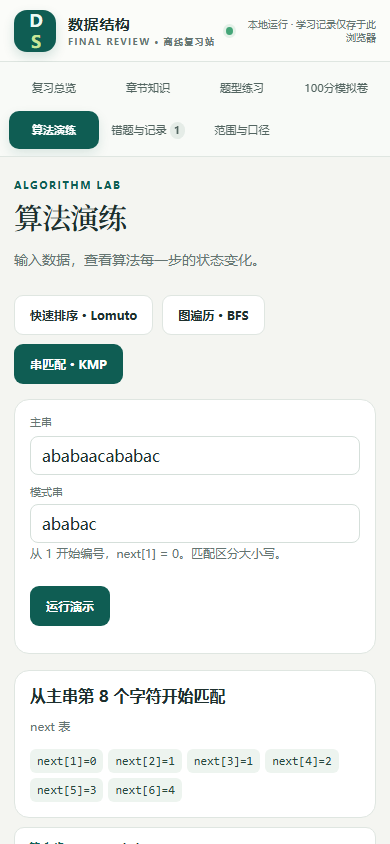
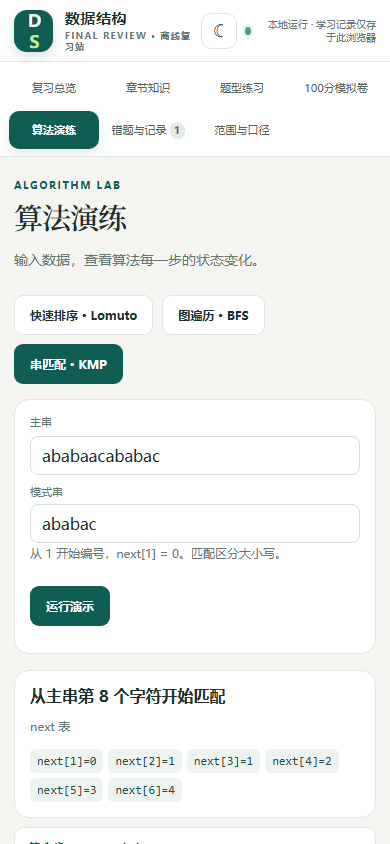
Add persistent dark mode toggle

diff --git a/assets/styles.css b/assets/styles.css
@@ -1,4 +1,4 @@
-:root {
+:root {
   color-scheme: light;
   --paper: #f4f5f1;
   --surface: #ffffff;
@@ -26,7 +26,7 @@ button { cursor: pointer; }
 a { color: inherit; }
 .skip-link { position: absolute; left: -999px; top: 8px; z-index: 10; padding: 10px; background: white; }
 .skip-link:focus { left: 8px; }
-.topbar { height: 72px; padding: 0 clamp(18px, 4vw, 52px); display: flex; align-items: center; justify-content: space-between; background: #fbfcf9; border-bottom: 1px solid var(--line); }
+.topbar { height: 72px; padding: 0 clamp(18px, 4vw, 52px); display: flex; align-items: center; justify-content: space-between; background: var(--surface); border-bottom: 1px solid var(--line); }
 .brand { display: inline-flex; gap: 12px; align-items: center; text-decoration: none; }
 .brand-mark { width: 42px; height: 42px; display: grid; place-items: center; border-radius: 13px; background: var(--pine); color: #effbf5; font-weight: 800; letter-spacing: -2px; font-size: 17px; box-shadow: 0 5px 12px #0f5d5329; }
 .brand-mark span { color: var(--lime); }
@@ -177,7 +177,7 @@ h3 { margin-bottom: 8px; font-size: 16px; }
   .topbar { height: 62px; padding-inline: 14px; }
   .topbar-note { max-width: 150px; text-align: right; font-size: 10px; }
   .shell { display: block; min-height: auto; }
-  .sidebar { position: sticky; z-index: 5; top: 0; overflow-x: auto; padding: 7px 9px; border: 0; border-bottom: 1px solid var(--line); background: #f8faf7f2; backdrop-filter: blur(12px); }
+  .sidebar { position: sticky; z-index: 5; top: 0; overflow-x: auto; padding: 7px 9px; border: 0; border-bottom: 1px solid var(--line); background: var(--surface); backdrop-filter: blur(12px); }
   .sidebar-label,.sidebar-bottom { display: none; }
   .primary-nav { grid-template-columns: repeat(4, minmax(0, 1fr)); gap: 4px; }
   .nav-item { justify-content: center; min-height: 38px; gap: 3px; padding-inline: 3px; white-space: nowrap; font-size: 11px; }
@@ -202,5 +202,67 @@ h3 { margin-bottom: 8px; font-size: 16px; }
   .scope-table { font-size: 10px; }
   .scope-table th,.scope-table td { padding: 8px 5px; }
   .site-footer { flex-direction: column; padding: 15px; }
+}
+:root[data-theme="dark"] {
+  color-scheme: dark;
+  --paper: #111714;
+  --surface: #1a2420;
+  --ink: #e6ede9;
+  --muted: #a8b7af;
+  --line: #34423b;
+  --pine: #286e62;
+  --pine-deep: #173c36;
+  --mint: #28483e;
+  --lime: #c8e59a;
+  --shadow: 0 14px 36px rgba(0, 0, 0, .32);
+}
+:root[data-theme="dark"] .skip-link { background: var(--surface); color: var(--ink); }
+:root[data-theme="dark"] .sidebar-label,
+:root[data-theme="dark"] .site-footer { color: var(--muted); }
+:root[data-theme="dark"] .nav-item { color: var(--muted); }
+:root[data-theme="dark"] .nav-item:hover { background: #25352f; color: #d0eee3; }
+:root[data-theme="dark"] .nav-item.is-active { color: #fff; }
+:root[data-theme="dark"] .nav-count { background: #2d3d36; color: #d6e1db; }
+:root[data-theme="dark"] .button.secondary { background: #222e29; color: var(--ink); }
+:root[data-theme="dark"] .button.secondary:hover { border-color: #52786b; background: #293a33; }
+:root[data-theme="dark"] .chapter-card:nth-child(4n+2) .chapter-number { background: #463824; color: #f0cc8b; }
+:root[data-theme="dark"] .chapter-card:nth-child(4n+3) .chapter-number { background: #303344; color: #c7cafa; }
+:root[data-theme="dark"] .chapter-card:nth-child(4n) .chapter-number { background: #472e2a; color: #f0b2a4; }
+:root[data-theme="dark"] .note-card { border-color: #59492e; background: #30291d; color: #edce94; }
+:root[data-theme="dark"] .input,
+:root[data-theme="dark"] .select { border-color: var(--line); background: #151e1a; color: var(--ink); }
+:root[data-theme="dark"] .checkbox-label { color: var(--muted); }
+:root[data-theme="dark"] .pill { background: #29443a; color: #a9ddc8; }
+:root[data-theme="dark"] .pill.amber { background: #40351f; color: #efd39a; }
+:root[data-theme="dark"] .pill.blue { background: #303748; color: #c3ccef; }
+:root[data-theme="dark"] .pill.rose { background: #452f2c; color: #f0b4a6; }
+:root[data-theme="dark"] .topic-summary,
+:root[data-theme="dark"] .topic-body ul,
+:root[data-theme="dark"] .topic-body ol,
+:root[data-theme="dark"] .answer-content,
+:root[data-theme="dark"] .self-check label { color: var(--muted); }
+:root[data-theme="dark"] .topic-body h4 { color: #c3d0c9; }
+:root[data-theme="dark"] .example-box { background: #202b26; }
+:root[data-theme="dark"] .example-box strong { color: #c1e0d2; }
+:root[data-theme="dark"] .source-line { color: #a0afa7; }
+:root[data-theme="dark"] .option { border-color: #35443d; background: #1c2722; color: #dce7e1; }
+:root[data-theme="dark"] .option:hover { border-color: #5a8575; background: #24352e; }
+:root[data-theme="dark"] .hint { color: #a1afa8; }
+:root[data-theme="dark"] .answer-details { border-color: var(--line); }
+:root[data-theme="dark"] .result-line.good { background: #193b2c; color: #a6e1ba; }
+:root[data-theme="dark"] .result-line.bad { background: #442723; color: #ffaaa0; }
+:root[data-theme="dark"] .result-line.pending { background: #3c3525; color: #ecd08f; }
+:root[data-theme="dark"] .mock-item,
+:root[data-theme="dark"] .trace-step,
+:root[data-theme="dark"] .loading-card { background: var(--surface); }
+:root[data-theme="dark"] .empty-state { border-color: #4a5a51; background: #18221d; color: var(--muted); }
+:root[data-theme="dark"] .trace-values span { background: #263d33; color: #d0e8da; }
+.topbar-tools { display: flex; align-items: center; gap: 12px; min-width: 0; }
+.theme-toggle { display: grid; place-items: center; flex: 0 0 36px; width: 36px; height: 36px; padding: 0; border: 1px solid var(--line); border-radius: 10px; background: var(--surface); color: var(--ink); font-size: 18px; line-height: 1; transition: background .15s, border-color .15s, transform .15s; }
+.theme-toggle:hover { transform: translateY(-1px); border-color: var(--pine); }
+.theme-toggle:focus-visible { outline: 3px solid var(--pine); outline-offset: 2px; }
+@media (max-width: 620px) {
+  .topbar-tools { gap: 8px; }
+  .topbar-note { max-width: 145px; }
 }
 @media (prefers-reduced-motion: reduce) { *,*::before,*::after { scroll-behavior: auto !important; transition: none !important; } }

diff --git a/dist/styles.css b/dist/styles.css
@@ -1,4 +1,4 @@
-:root {
+:root {
   color-scheme: light;
   --paper: #f4f5f1;
   --surface: #ffffff;
@@ -26,7 +26,7 @@ button { cursor: pointer; }
 a { color: inherit; }
 .skip-link { position: absolute; left: -999px; top: 8px; z-index: 10; padding: 10px; background: white; }
 .skip-link:focus { left: 8px; }
-.topbar { height: 72px; padding: 0 clamp(18px, 4vw, 52px); display: flex; align-items: center; justify-content: space-between; background: #fbfcf9; border-bottom: 1px solid var(--line); }
+.topbar { height: 72px; padding: 0 clamp(18px, 4vw, 52px); display: flex; align-items: center; justify-content: space-between; background: var(--surface); border-bottom: 1px solid var(--line); }
 .brand { display: inline-flex; gap: 12px; align-items: center; text-decoration: none; }
 .brand-mark { width: 42px; height: 42px; display: grid; place-items: center; border-radius: 13px; background: var(--pine); color: #effbf5; font-weight: 800; letter-spacing: -2px; font-size: 17px; box-shadow: 0 5px 12px #0f5d5329; }
 .brand-mark span { color: var(--lime); }
@@ -177,7 +177,7 @@ h3 { margin-bottom: 8px; font-size: 16px; }
   .topbar { height: 62px; padding-inline: 14px; }
   .topbar-note { max-width: 150px; text-align: right; font-size: 10px; }
   .shell { display: block; min-height: auto; }
-  .sidebar { position: sticky; z-index: 5; top: 0; overflow-x: auto; padding: 7px 9px; border: 0; border-bottom: 1px solid var(--line); background: #f8faf7f2; backdrop-filter: blur(12px); }
+  .sidebar { position: sticky; z-index: 5; top: 0; overflow-x: auto; padding: 7px 9px; border: 0; border-bottom: 1px solid var(--line); background: var(--surface); backdrop-filter: blur(12px); }
   .sidebar-label,.sidebar-bottom { display: none; }
   .primary-nav { grid-template-columns: repeat(4, minmax(0, 1fr)); gap: 4px; }
   .nav-item { justify-content: center; min-height: 38px; gap: 3px; padding-inline: 3px; white-space: nowrap; font-size: 11px; }
@@ -202,5 +202,67 @@ h3 { margin-bottom: 8px; font-size: 16px; }
   .scope-table { font-size: 10px; }
   .scope-table th,.scope-table td { padding: 8px 5px; }
   .site-footer { flex-direction: column; padding: 15px; }
+}
+:root[data-theme="dark"] {
+  color-scheme: dark;
+  --paper: #111714;
+  --surface: #1a2420;
+  --ink: #e6ede9;
+  --muted: #a8b7af;
+  --line: #34423b;
+  --pine: #286e62;
+  --pine-deep: #173c36;
+  --mint: #28483e;
+  --lime: #c8e59a;
+  --shadow: 0 14px 36px rgba(0, 0, 0, .32);
+}
+:root[data-theme="dark"] .skip-link { background: var(--surface); color: var(--ink); }
+:root[data-theme="dark"] .sidebar-label,
+:root[data-theme="dark"] .site-footer { color: var(--muted); }
+:root[data-theme="dark"] .nav-item { color: var(--muted); }
+:root[data-theme="dark"] .nav-item:hover { background: #25352f; color: #d0eee3; }
+:root[data-theme="dark"] .nav-item.is-active { color: #fff; }
+:root[data-theme="dark"] .nav-count { background: #2d3d36; color: #d6e1db; }
+:root[data-theme="dark"] .button.secondary { background: #222e29; color: var(--ink); }
+:root[data-theme="dark"] .button.secondary:hover { border-color: #52786b; background: #293a33; }
+:root[data-theme="dark"] .chapter-card:nth-child(4n+2) .chapter-number { background: #463824; color: #f0cc8b; }
+:root[data-theme="dark"] .chapter-card:nth-child(4n+3) .chapter-number { background: #303344; color: #c7cafa; }
+:root[data-theme="dark"] .chapter-card:nth-child(4n) .chapter-number { background: #472e2a; color: #f0b2a4; }
+:root[data-theme="dark"] .note-card { border-color: #59492e; background: #30291d; color: #edce94; }
+:root[data-theme="dark"] .input,
+:root[data-theme="dark"] .select { border-color: var(--line); background: #151e1a; color: var(--ink); }
+:root[data-theme="dark"] .checkbox-label { color: var(--muted); }
+:root[data-theme="dark"] .pill { background: #29443a; color: #a9ddc8; }
+:root[data-theme="dark"] .pill.amber { background: #40351f; color: #efd39a; }
+:root[data-theme="dark"] .pill.blue { background: #303748; color: #c3ccef; }
+:root[data-theme="dark"] .pill.rose { background: #452f2c; color: #f0b4a6; }
+:root[data-theme="dark"] .topic-summary,
+:root[data-theme="dark"] .topic-body ul,
+:root[data-theme="dark"] .topic-body ol,
+:root[data-theme="dark"] .answer-content,
+:root[data-theme="dark"] .self-check label { color: var(--muted); }
+:root[data-theme="dark"] .topic-body h4 { color: #c3d0c9; }
+:root[data-theme="dark"] .example-box { background: #202b26; }
+:root[data-theme="dark"] .example-box strong { color: #c1e0d2; }
+:root[data-theme="dark"] .source-line { color: #a0afa7; }
+:root[data-theme="dark"] .option { border-color: #35443d; background: #1c2722; color: #dce7e1; }
+:root[data-theme="dark"] .option:hover { border-color: #5a8575; background: #24352e; }
+:root[data-theme="dark"] .hint { color: #a1afa8; }
+:root[data-theme="dark"] .answer-details { border-color: var(--line); }
+:root[data-theme="dark"] .result-line.good { background: #193b2c; color: #a6e1ba; }
+:root[data-theme="dark"] .result-line.bad { background: #442723; color: #ffaaa0; }
+:root[data-theme="dark"] .result-line.pending { background: #3c3525; color: #ecd08f; }
+:root[data-theme="dark"] .mock-item,
+:root[data-theme="dark"] .trace-step,
+:root[data-theme="dark"] .loading-card { background: var(--surface); }
+:root[data-theme="dark"] .empty-state { border-color: #4a5a51; background: #18221d; color: var(--muted); }
+:root[data-theme="dark"] .trace-values span { background: #263d33; color: #d0e8da; }
+.topbar-tools { display: flex; align-items: center; gap: 12px; min-width: 0; }
+.theme-toggle { display: grid; place-items: center; flex: 0 0 36px; width: 36px; height: 36px; padding: 0; border: 1px solid var(--line); border-radius: 10px; background: var(--surface); color: var(--ink); font-size: 18px; line-height: 1; transition: background .15s, border-color .15s, transform .15s; }
+.theme-toggle:hover { transform: translateY(-1px); border-color: var(--pine); }
+.theme-toggle:focus-visible { outline: 3px solid var(--pine); outline-offset: 2px; }
+@media (max-width: 620px) {
+  .topbar-tools { gap: 8px; }
+  .topbar-note { max-width: 145px; }
 }
 @media (prefers-reduced-motion: reduce) { *,*::before,*::after { scroll-behavior: auto !important; transition: none !important; } }

diff --git a/assets/app.js b/assets/app.js
@@ -180,6 +180,24 @@ function renderKmpTrace(result) {
 const scopeRows=[['1 绪论','数据、数据元素、抽象数据类型与算法分析。','算法性质和复杂度是基础；按章节自编选择练习。'],['2 线性表','顺序表插入/查找与单链表头插、尾插。','程序训练标明下标和带/不带头结点。'],['3 栈和队列','LIFO、FIFO；顺序栈与循环队列操作。','循环队列留一空位时，空front==rear，满(rear+1)%M==front。'],['4 串、数组和广义表','BF/KMP与next约定、数组地址、广义表辨析。','广义表优先选择题；是否只考选择待核实。'],['5 树和二叉树','遍历与充分序列建树；哈夫曼树和WPL。','输入足以唯一确定树；哈夫曼并列接受等价最优树。'],['6 图','遍历、最小生成树、最短路径。','纪要对综合应用含条件句，不标成必考。'],['7 查找','折半查找及代码；二叉排序树构造。','边界使用闭区间，重复键策略单独说明。'],['8 排序','插入、希尔、冒泡、快速；堆与归并基础。','希尔增量、快排分区方法显式给出。']];
 function scopeView(){shell('考试范围与教材依据','SCOPE & SOURCES','各主题附有教材节号与页码，复习顺序参照考试纪要。',`<div class="note-card" style="margin-top:18px"><span class="note-icon">ⓘ</span><span>纪要正文与饼图将选择题列为 40 分，概览图列为 20 分。模拟卷采用 40 分，正式分值待确认。</span></div><div class="panel" style="margin-top:15px;overflow:auto"><table class="scope-table"><thead><tr><th>章节</th><th>复习重点</th><th>口径</th></tr></thead><tbody>${scopeRows.map(r=>`<tr>${r.map(x=>`<td>${esc(x)}</td>`).join('')}</tr>`).join('')}</tbody></table></div><div class="grid-two" style="margin-top:14px"><article class="panel"><h3>纪要与教材对照</h3><ul><li>留一空位的循环队列用 <code>front == rear</code> 判空，用 <code>(rear + 1) % M == front</code> 判满。见教材 §3.5.2，印刷第79页。</li><li>教材顺序栈的 <code>top</code> 指向下一空位，<code>top == base</code> 时为空。见教材 §3.3.2，印刷第66页。</li></ul></article><article class="panel"><h3>训练题来源</h3><p>题库采用自编练习。知识点同时列出教材印刷页和 PDF 物理页，正文相差 12 页。正式题量和考试日期以老师通知为准。</p></article></div>`)}
 function draw(){if(!D?.chapters?.length){app.innerHTML='<div class="empty-state">缺少题库，请运行构建脚本生成 dist。</div>';return}({overview,chapters:chaptersView,chapter:chapterView,practice:practiceView,quiz:quizView,mock:mockView,wrong:wrongView,lab:labView,scope:scopeView}[S.view]||overview)();nav()}
+const themeToggle=$('#theme-toggle');
+const themeStorageKey='ds-final-review-theme-v1';
+let savedTheme=null;
+try{savedTheme=localStorage.getItem(themeStorageKey)}catch{}
+const systemTheme=matchMedia('(prefers-color-scheme: dark)');
+let hasSavedTheme=savedTheme==='dark'||savedTheme==='light';
+function setTheme(theme,persist=false){
+  const dark=theme==='dark';
+  document.documentElement.dataset.theme=dark?'dark':'light';
+  if(themeToggle){themeToggle.setAttribute('aria-pressed',String(dark));themeToggle.title=dark?'切换为浅色主题':'切换为暗色主题';themeToggle.innerHTML=`<span aria-hidden="true">${dark?'☀':'☾'}</span>`}
+  $('meta[name="theme-color"]')?.setAttribute('content',dark?'#111714':'#f4f5f1');
+  if(persist)try{localStorage.setItem(themeStorageKey,dark?'dark':'light')}catch{}
+}
+if(themeToggle){
+  setTheme(hasSavedTheme?savedTheme:systemTheme.matches?'dark':'light');
+  if(!hasSavedTheme)systemTheme.addEventListener('change',event=>{if(!hasSavedTheme)setTheme(event.matches?'dark':'light')});
+  themeToggle.addEventListener('click',()=>{hasSavedTheme=true;setTheme(document.documentElement.dataset.theme==='dark'?'light':'dark',true)});
+}
 document.addEventListener('click',e=>{let n=e.target.closest('[data-view]');if(n){show(n.dataset.view);return}let b=e.target.closest('[data-action]');if(!b)return;let a=b.dataset.action;if(a==='chapter'){S.chapter=b.dataset.id;show('chapter')}else if(a==='chapter-quiz'){let c=cm.get(b.dataset.id);startQuiz(C.shuffle(c.questions),`第${c.number}章 · ${c.title}练习`)}else if(a==='topic-quiz'){let c=cm.get(b.dataset.ch);startQuiz(c.questions.filter(q=>q.topicId===b.dataset.topic),`${c.title} · 主题练习`)}else if(a==='master'){let id=b.dataset.id;S.progress.mastered=S.progress.mastered.includes(id)?S.progress.mastered.filter(x=>x!==id):[...S.progress.mastered,id];save();draw()}else if(a==='mock'){try{let sec=C.buildExam(chapters,Date.now());Object.values(sec).flat().forEach(q=>{q.chapterId=q.id.slice(0,4);q.chapterTitle=cm.get(q.chapterId)?.title||''});startQuiz(Object.values(sec).flat(),'100分模拟练习','mock',sec)}catch(x){alert(x.message)}}else if(a==='new-quiz')show(S.quiz.kind==='mock'?'mock':S.quiz.kind==='wrong'?'wrong':'practice');else if(a==='retry'){let qs=S.progress.wrong.map(id=>qm.get(id)).filter(Boolean);startQuiz(qs,'错题重练','wrong')}else if(a==='export'){let u=URL.createObjectURL(new Blob([C.exportProgress(S.progress)],{type:'application/json'})),x=document.createElement('a');x.href=u;x.download='data-structures-review-progress.json';x.click();setTimeout(()=>URL.revokeObjectURL(u),1000)}else if(a==='lab-kind'){S.lab=b.dataset.kind;S.trace=null;draw()}});
 function gradeCurrentQuiz(form) {
   const quiz = S.quiz;

diff --git a/dist/app.js b/dist/app.js
@@ -439,6 +439,24 @@ function renderKmpTrace(result) {
 const scopeRows=[['1 绪论','数据、数据元素、抽象数据类型与算法分析。','算法性质和复杂度是基础；按章节自编选择练习。'],['2 线性表','顺序表插入/查找与单链表头插、尾插。','程序训练标明下标和带/不带头结点。'],['3 栈和队列','LIFO、FIFO；顺序栈与循环队列操作。','循环队列留一空位时，空front==rear，满(rear+1)%M==front。'],['4 串、数组和广义表','BF/KMP与next约定、数组地址、广义表辨析。','广义表优先选择题；是否只考选择待核实。'],['5 树和二叉树','遍历与充分序列建树；哈夫曼树和WPL。','输入足以唯一确定树；哈夫曼并列接受等价最优树。'],['6 图','遍历、最小生成树、最短路径。','纪要对综合应用含条件句，不标成必考。'],['7 查找','折半查找及代码；二叉排序树构造。','边界使用闭区间，重复键策略单独说明。'],['8 排序','插入、希尔、冒泡、快速；堆与归并基础。','希尔增量、快排分区方法显式给出。']];
 function scopeView(){shell('考试范围与教材依据','SCOPE & SOURCES','各主题附有教材节号与页码，复习顺序参照考试纪要。',`<div class="note-card" style="margin-top:18px"><span class="note-icon">ⓘ</span><span>纪要正文与饼图将选择题列为 40 分，概览图列为 20 分。模拟卷采用 40 分，正式分值待确认。</span></div><div class="panel" style="margin-top:15px;overflow:auto"><table class="scope-table"><thead><tr><th>章节</th><th>复习重点</th><th>口径</th></tr></thead><tbody>${scopeRows.map(r=>`<tr>${r.map(x=>`<td>${esc(x)}</td>`).join('')}</tr>`).join('')}</tbody></table></div><div class="grid-two" style="margin-top:14px"><article class="panel"><h3>纪要与教材对照</h3><ul><li>留一空位的循环队列用 <code>front == rear</code> 判空，用 <code>(rear + 1) % M == front</code> 判满。见教材 §3.5.2，印刷第79页。</li><li>教材顺序栈的 <code>top</code> 指向下一空位，<code>top == base</code> 时为空。见教材 §3.3.2，印刷第66页。</li></ul></article><article class="panel"><h3>训练题来源</h3><p>题库采用自编练习。知识点同时列出教材印刷页和 PDF 物理页，正文相差 12 页。正式题量和考试日期以老师通知为准。</p></article></div>`)}
 function draw(){if(!D?.chapters?.length){app.innerHTML='<div class="empty-state">缺少题库，请运行构建脚本生成 dist。</div>';return}({overview,chapters:chaptersView,chapter:chapterView,practice:practiceView,quiz:quizView,mock:mockView,wrong:wrongView,lab:labView,scope:scopeView}[S.view]||overview)();nav()}
+const themeToggle=$('#theme-toggle');
+const themeStorageKey='ds-final-review-theme-v1';
+let savedTheme=null;
+try{savedTheme=localStorage.getItem(themeStorageKey)}catch{}
+const systemTheme=matchMedia('(prefers-color-scheme: dark)');
+let hasSavedTheme=savedTheme==='dark'||savedTheme==='light';
+function setTheme(theme,persist=false){
+  const dark=theme==='dark';
+  document.documentElement.dataset.theme=dark?'dark':'light';
+  if(themeToggle){themeToggle.setAttribute('aria-pressed',String(dark));themeToggle.title=dark?'切换为浅色主题':'切换为暗色主题';themeToggle.innerHTML=`<span aria-hidden="true">${dark?'☀':'☾'}</span>`}
+  $('meta[name="theme-color"]')?.setAttribute('content',dark?'#111714':'#f4f5f1');
+  if(persist)try{localStorage.setItem(themeStorageKey,dark?'dark':'light')}catch{}
+}
+if(themeToggle){
+  setTheme(hasSavedTheme?savedTheme:systemTheme.matches?'dark':'light');
+  if(!hasSavedTheme)systemTheme.addEventListener('change',event=>{if(!hasSavedTheme)setTheme(event.matches?'dark':'light')});
+  themeToggle.addEventListener('click',()=>{hasSavedTheme=true;setTheme(document.documentElement.dataset.theme==='dark'?'light':'dark',true)});
+}
 document.addEventListener('click',e=>{let n=e.target.closest('[data-view]');if(n){show(n.dataset.view);return}let b=e.target.closest('[data-action]');if(!b)return;let a=b.dataset.action;if(a==='chapter'){S.chapter=b.dataset.id;show('chapter')}else if(a==='chapter-quiz'){let c=cm.get(b.dataset.id);startQuiz(C.shuffle(c.questions),`第${c.number}章 · ${c.title}练习`)}else if(a==='topic-quiz'){let c=cm.get(b.dataset.ch);startQuiz(c.questions.filter(q=>q.topicId===b.dataset.topic),`${c.title} · 主题练习`)}else if(a==='master'){let id=b.dataset.id;S.progress.mastered=S.progress.mastered.includes(id)?S.progress.mastered.filter(x=>x!==id):[...S.progress.mastered,id];save();draw()}else if(a==='mock'){try{let sec=C.buildExam(chapters,Date.now());Object.values(sec).flat().forEach(q=>{q.chapterId=q.id.slice(0,4);q.chapterTitle=cm.get(q.chapterId)?.title||''});startQuiz(Object.values(sec).flat(),'100分模拟练习','mock',sec)}catch(x){alert(x.message)}}else if(a==='new-quiz')show(S.quiz.kind==='mock'?'mock':S.quiz.kind==='wrong'?'wrong':'practice');else if(a==='retry'){let qs=S.progress.wrong.map(id=>qm.get(id)).filter(Boolean);startQuiz(qs,'错题重练','wrong')}else if(a==='export'){let u=URL.createObjectURL(new Blob([C.exportProgress(S.progress)],{type:'application/json'})),x=document.createElement('a');x.href=u;x.download='data-structures-review-progress.json';x.click();setTimeout(()=>URL.revokeObjectURL(u),1000)}else if(a==='lab-kind'){S.lab=b.dataset.kind;S.trace=null;draw()}});
 function gradeCurrentQuiz(form) {
   const quiz = S.quiz;

diff --git a/assets/index.html b/assets/index.html
@@ -6,6 +6,17 @@
   <meta name="theme-color" content="#f4f5f1">
   <meta name="description" content="离线数据结构期末复习：章节知识、算法步骤、题型训练和模拟卷。">
   <title>数据结构 · 期末复习</title>
+  <script>
+    (() => {
+      const key = 'ds-final-review-theme-v1';
+      let saved = null;
+      try { saved = localStorage.getItem(key); } catch {}
+      const theme = saved === 'light' || saved === 'dark'
+        ? saved
+        : matchMedia('(prefers-color-scheme: dark)').matches ? 'dark' : 'light';
+      document.documentElement.dataset.theme = theme;
+    })();
+  </script>
   <link rel="stylesheet" href="styles.css">
 </head>
 <body>
@@ -15,7 +26,10 @@
       <span class="brand-mark" aria-hidden="true">D<span>S</span></span>
       <span><b>数据结构</b><small>FINAL REVIEW · 离线复习站</small></span>
     </a>
-    <div class="topbar-note"><span class="status-dot"></span> 本地运行 · 学习记录仅存于此浏览器</div>
+    <div class="topbar-tools">
+      <button id="theme-toggle" class="theme-toggle" type="button" aria-label="暗色主题" aria-pressed="false" title="切换为暗色主题"><span aria-hidden="true">☾</span></button>
+      <div class="topbar-note"><span class="status-dot"></span> 本地运行 · 学习记录仅存于此浏览器</div>
+    </div>
   </header>
   <div class="shell">
     <aside class="sidebar">

diff --git a/dist/index.html b/dist/index.html
@@ -6,6 +6,17 @@
   <meta name="theme-color" content="#f4f5f1">
   <meta name="description" content="离线数据结构期末复习：章节知识、算法步骤、题型训练和模拟卷。">
   <title>数据结构 · 期末复习</title>
+  <script>
+    (() => {
+      const key = 'ds-final-review-theme-v1';
+      let saved = null;
+      try { saved = localStorage.getItem(key); } catch {}
+      const theme = saved === 'light' || saved === 'dark'
+        ? saved
+        : matchMedia('(prefers-color-scheme: dark)').matches ? 'dark' : 'light';
+      document.documentElement.dataset.theme = theme;
+    })();
+  </script>
   <link rel="stylesheet" href="styles.css">
 </head>
 <body>
@@ -15,7 +26,10 @@
       <span class="brand-mark" aria-hidden="true">D<span>S</span></span>
       <span><b>数据结构</b><small>FINAL REVIEW · 离线复习站</small></span>
     </a>
-    <div class="topbar-note"><span class="status-dot"></span> 本地运行 · 学习记录仅存于此浏览器</div>
+    <div class="topbar-tools">
+      <button id="theme-toggle" class="theme-toggle" type="button" aria-label="暗色主题" aria-pressed="false" title="切换为暗色主题"><span aria-hidden="true">☾</span></button>
+      <div class="topbar-note"><span class="status-dot"></span> 本地运行 · 学习记录仅存于此浏览器</div>
+    </div>
   </header>
   <div class="shell">
     <aside class="sidebar">
